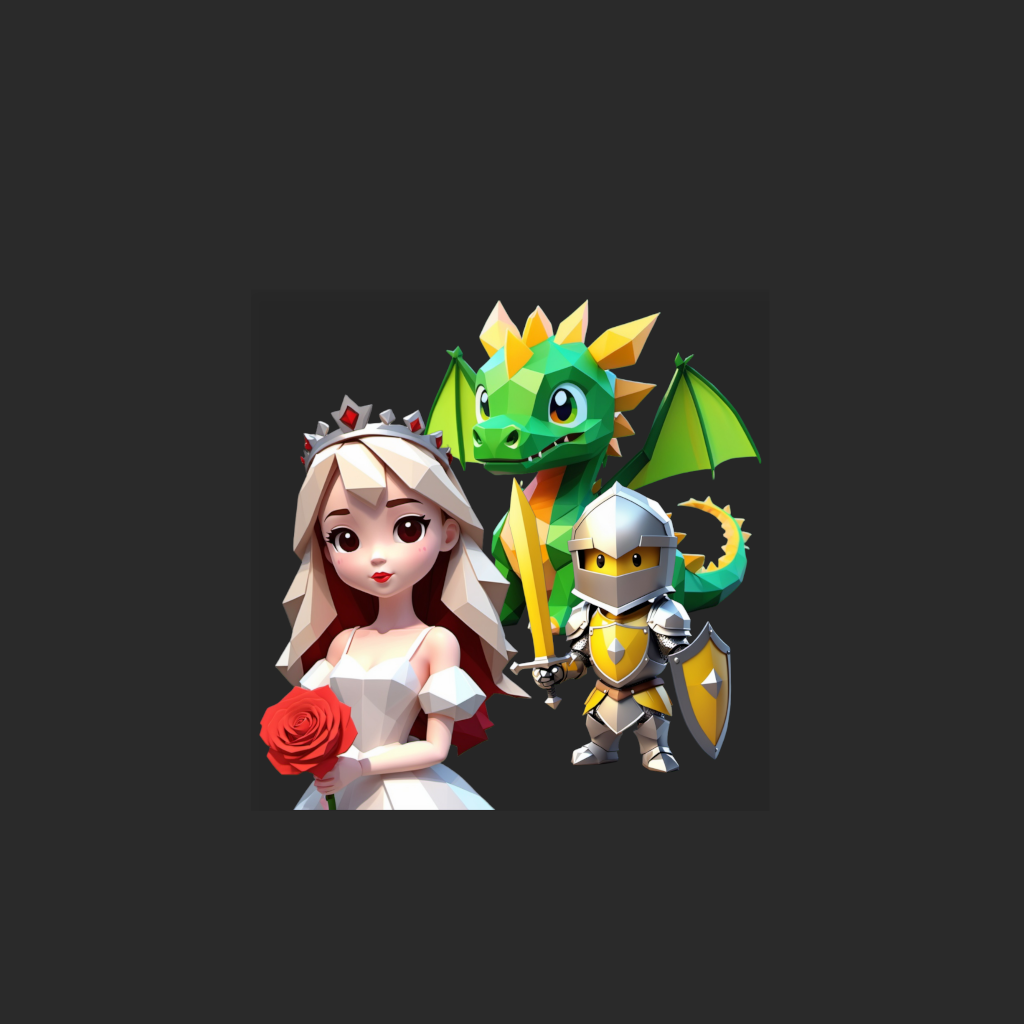
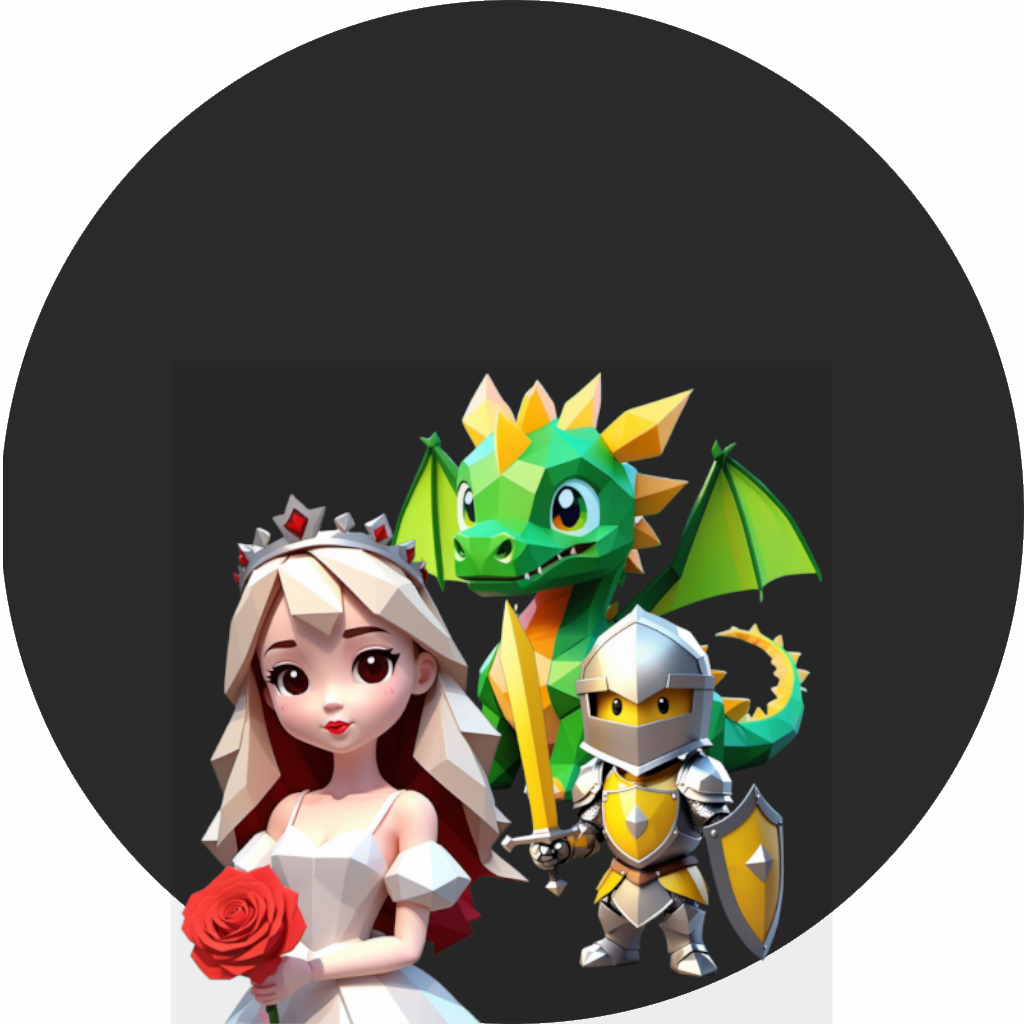
Nuevos icono, loader para mapa librerias

diff --git a/src/screens/MapaScreen.js b/src/screens/MapaScreen.js
@@ -1,20 +1,22 @@
 import React, { useEffect, useState } from "react";
-import { View } from "react-native";
+import { View, ActivityIndicator, Text } from "react-native";
 import MapView, { Marker } from "react-native-maps";
 import styles from "../styles/MapaStyles.js";
 
 const MapaScreen = () => {
   const [bookstores, setBookstores] = useState([]);
+  const [loading, setLoading] = useState(true);
+  const [error, setError] = useState(false);
 
   useEffect(() => {
     const fetchBookstores = async () => {
       try {
         const query = `
-          [out:json];
+          [out:json][timeout:25];
           (
             node(around:6000, 41.3851, 2.1734)["shop"="books"];
           );
-          out center;
+          out center 100;
         `;
         const url = `https://overpass-api.de/api/interpreter?data=${encodeURIComponent(
           query
@@ -25,52 +27,72 @@ const MapaScreen = () => {
 
         if (!data.elements || data.elements.length === 0) {
           console.warn("No bookstores found.");
+          setLoading(false);
           return;
         }
 
-        // Extract bookstore locations
         const bookstoresData = data.elements
-          .filter((element) => element.lat && element.lon)
-          .map((element) => ({
-            id: element.id,
-            name: element.tags?.name || "Unnamed Bookstore",
-            latitude: element.lat,
-            longitude: element.lon,
+          .filter((e) => e.lat && e.lon)
+          .map((e) => ({
+            id: e.id,
+            name: e.tags?.name || "Llibreria sense nom",
+            latitude: e.lat,
+            longitude: e.lon,
           }));
 
-        setBookstores(bookstoresData);
-      } catch (error) {
-        console.error("Error fetching bookstores:", error);
+        setBookstores(bookstoresData.slice(0, 100)); // limit to 100
+      } catch (err) {
+        console.error("Error fetching bookstores:", err);
+        setError(true);
+      } finally {
+        setLoading(false);
       }
     };
 
     fetchBookstores();
   }, []);
 
+  if (loading) {
+    return (
+      <View style={[styles.containerLoader, styles.indicator]}>
+        <ActivityIndicator style={styles.indicator} />
+        <Text style={styles.textIndicator}>Carregant...</Text>
+      </View>
+    );
+  }
+
+  if (error) {
+    return (
+      <View style={styles.container}>
+        <Text style={{ color: "red" }}>
+          No s'han pogut carregar les llibreries.
+        </Text>
+      </View>
+    );
+  }
+
   return (
     <View style={styles.container}>
-      {bookstores.length > 0 && (
-        <MapView
-          style={styles.map}
-          initialRegion={{
-            latitude: 41.3851,
-            longitude: 2.1734,
-            latitudeDelta: 0.1,
-            longitudeDelta: 0.1,
-          }}
-        >
-          {bookstores.map((store) => (
-            <Marker
-              key={store.id}
-              coordinate={{
-                latitude: store.latitude,
-                longitude: store.longitude,
-              }}
-              title={store.name}
-            />
-          ))}
-        </MapView>
-      )}
+      <MapView
+        style={styles.map}
+        initialRegion={{
+          latitude: 41.3851,
+          longitude: 2.1734,
+          latitudeDelta: 0.1,
+          longitudeDelta: 0.1,
+        }}
+      >
+        {bookstores.map((store) => (
+          <Marker
+            key={store.id}
+            coordinate={{
+              latitude: store.latitude,
+              longitude: store.longitude,
+            }}
+            title={store.name}
+          />
+        ))}
+      </MapView>
     </View>
   );
 };

diff --git a/src/styles/MapaStyles.js b/src/styles/MapaStyles.js
@@ -3,6 +3,25 @@ import { StyleSheet } from "react-native";
 const styles = StyleSheet.create({
   container: { flex: 1 },
   map: { with: "100%", height: "100%" },
+  loading: {
+    justifyContent: "center",
+    alignItems: "center",
+  },
+  containerLoader: {
+    flex: 1,
+    backgroundColor: "#444",
+    justifyContent: "center",
+    alignItems: "center",
+  },
+  indicator: {
+    size: "large",
+    color: "white",
+  },
+  textIndicator: {
+    marginTop: 20,
+    size: 20,
+    color: "white",
+  },
 });
 
 export default styles;
